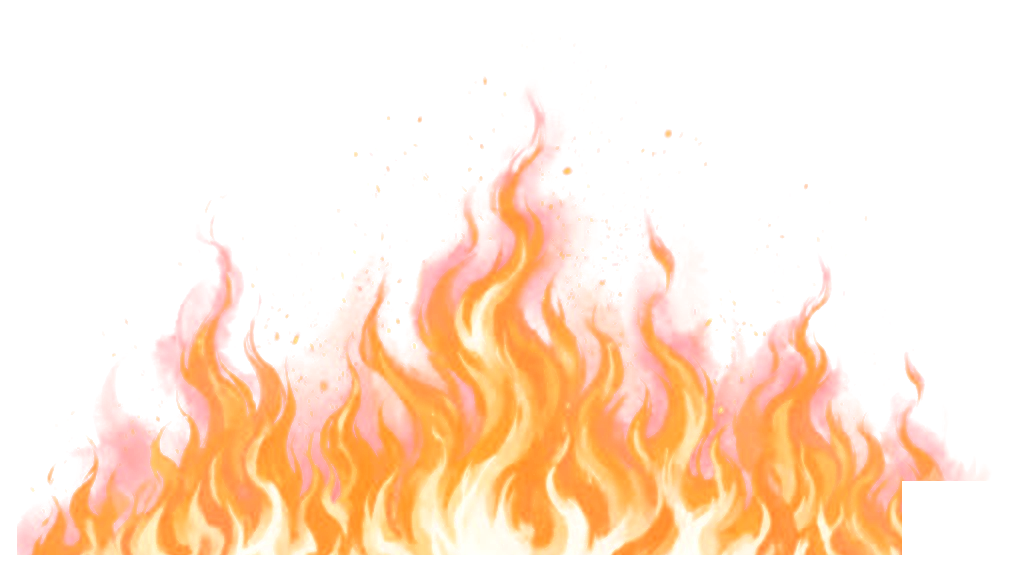
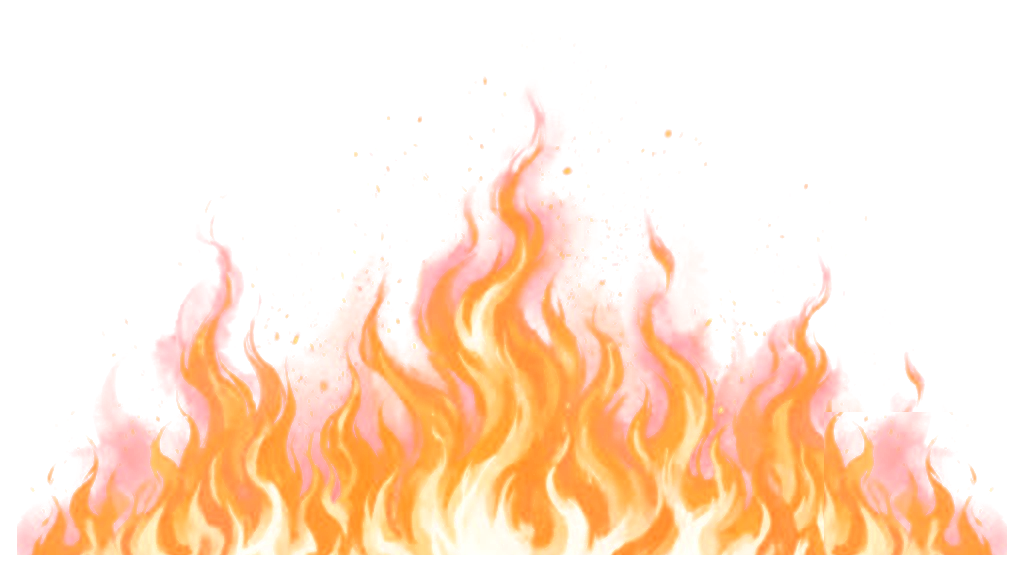
각성 불을 그림이 아니라 지금 타는 불로 — WebGL 불 셰이더(burn.ts: 위로 흐르는 잡음 UV 비틂 · 능선 잡음 혀 · 깎기 문턱으로 번짐 · 흰→노랑→주황→붉은 그레이디언트 맵 · 테두리 둘레 거리로 근원) · 액자는 엠블럼 없는 민 청동 띠로 새로(새 대화) · 불꽃 자리는 빈 청동 자리 위에서 탄다 · 영웅 칸 불꽃도 청동 자리 그림 · 그림 검토 에이전트 지적 고침(불벽 구멍 · 불티·불혀 워터마크 · 켜진 자리 삐침) · WebGL 없으면 그린 불로 (형 11-01)
Claude-Session: https://claude.ai/code/session_01TRiuNBghcKFkjvLYPkZ8je

Changed region(s): [[0.7812, 0.7133, 1.0, 0.9808]]

diff --git a/src/ui/realm/burn.ts b/src/ui/realm/burn.ts
@@ -1,0 +1,140 @@
+// 타오르는 불 — 그린 불 그림이 아니라 지금 타는 불 (형 11-01: "채워진 게 아니라 불타는 듯한 연출이 필요")
+//
+// 요즘 게임 VFX 의 불 셰이더를 작게 옮긴다 (realtimevfx · godotshaders 의 stylized fire 갈래):
+//  1. 흐름 — 잡음(fbm 3옥타브)을 위로 흘려 불 모양의 UV 를 비튼다. 비틂은 위로 갈수록 크다 (밑동은 붙어 있고 끝이 넘실댄다)
+//  2. 깎기(erosion) — 열에서 문턱을 빼 가장자리를 찢는다. 불이 붙을 때 문턱이 내려가며 「번진다」
+//  3. 그레이디언트 맵 — 열 하나를 흰 심 → 노랑 → 주황 → 붉은 끝 → 투명으로
+//  4. 테두리 불(burning paper) — 띠에서 떨어진 거리로 열의 근원을 잡고 그 위로 혀가 솟는다
+// 폰: 옥타브 셋 · 작은 캔버스 · 화면 배율 1.5 까지 · 한 번에 몇 개만 (각성 연출 한 장면). 탭이 숨으면 rAF 가 멈춘다 (규칙 4).
+
+const VS = 'attribute vec2 p;varying vec2 v;void main(){v=p*.5+.5;gl_Position=vec4(p,0.,1.);}'
+
+const FS = `precision mediump float;
+varying vec2 v;
+uniform float uT, uOn, uSeed, uMode, uTop, uSide;
+float hash(vec2 p){p=fract(p*vec2(123.34,456.21));p+=dot(p,p+45.32);return fract(p.x*p.y);}
+float noise(vec2 p){vec2 i=floor(p),f=fract(p);f=f*f*(3.-2.*f);
+  return mix(mix(hash(i),hash(i+vec2(1.,0.)),f.x),mix(hash(i+vec2(0.,1.)),hash(i+vec2(1.,1.)),f.x),f.y);}
+float fbm(vec2 p){float a=.5*noise(p);p*=2.03;a+=.25*noise(p);p*=2.01;a+=.125*noise(p);return a/.875;}
+vec4 ramp(float h){
+  vec3 c=mix(vec3(.5,.05,.02),vec3(1.,.4,.05),smoothstep(.12,.42,h));
+  c=mix(c,vec3(1.,.8,.28),smoothstep(.42,.68,h));
+  c=mix(c,vec3(1.,.97,.86),smoothstep(.7,.95,h));
+  float a=smoothstep(.06,.28,h);
+  return vec4(c*a,a);
+}
+// 불혀 하나: s 밑동 · w 너비 · ht 높이 (캔버스 비율)
+float tongue(vec2 uv,vec2 s,float w,float ht,float sd){
+  vec2 q=(uv-s)/vec2(w,ht);
+  if(q.y<-.35||q.y>1.25||abs(q.x)>1.4)return 0.;
+  float n=fbm(vec2(q.x*1.8+sd,q.y*1.4-uT*2.1));
+  q.x+=(n-.5)*1.1*clamp(q.y,0.,1.);
+  float body=1.-smoothstep(0.,.55*(1.-q.y*.82),abs(q.x));
+  float base=smoothstep(-.35,.02,q.y);
+  float flick=fbm(vec2(q.x*3.5-sd,q.y*2.6-uT*3.3));
+  return body*base*(1.12-q.y)*(.55+.9*flick);
+}
+void main(){
+  vec2 uv=v;
+  float h=0.;
+  if(uMode<.5){
+    // 청동 불꽃 자리: 우묵한 속 밑에서 피어 끝 위로 넘실
+    // 가운데 큰 혀 하나 + 양옆 작은 혀 둘이 어긋나 넘실댄다 (한 줄기 촛불처럼 보이지 않게)
+    h=tongue(uv,vec2(.5,.12),.62,.56,uSeed);
+    h=max(h,.85*tongue(uv,vec2(.38,.13),.36,.38,uSeed+5.));
+    h=max(h,.85*tongue(uv,vec2(.62,.13),.36,.42,uSeed+9.));
+  }else{
+    // 액자: 캔버스 위쪽 uTop 만큼은 액자 밖(불이 솟을 자리). cy 는 액자 높이 비율 (0 아래 · 1 윗변)
+    float cy=uv.y*(1.+uTop);
+    float x=uv.x*(1.+2.*uSide)-uSide; // 캔버스는 액자보다 양옆으로 uSide 만큼 넓다: 끝 혀가 잘리지 않게
+    // 액자 바깥 테두리 둘레 전체가 불의 근원 (burning paper): 바깥 테에서 떨어진 거리 e. 불은 위로 타므로
+    // 옆·아래로는 짧게(.07), 위로는 길게(uTop) 잰다. 띠 위에서는 e=0 이지만 띠 안쪽으로 갈수록 식어 청동이 드러난다
+    float ox=max(max(-x,x-1.),0.);
+    float above=max(cy-1.,0.);
+    float below=max(-cy,0.);
+    float e=length(vec2(ox/.07,above/uTop+below/.012)); // 아래로는 거의 안 번진다 (캔버스가 액자 밑에서 끝난다)
+    float inBand=min(min(x,1.-x),min(cy,1.-cy)); // 띠 안에서 바깥 테까지 (0 = 바깥 테)
+    float cool=smoothstep(.0,.07,inBand);        // 띠 안쪽 깊이 들수록 불이 옅다
+    if(e<1.){
+      // 혀로 갈라지게: 흐름 잡음으로 x 를 비틀고, 능선 잡음(1-|2n-1|)으로 가는 혀를 세운 뒤, 근원에서 멀수록 문턱을 올려 끝이 끊긴다
+      float w=fbm(vec2(x*4.+uSeed,cy*1.6-uT*1.5));
+      float n=fbm(vec2(x*11.+(w-.5)*2.2,cy*2.6-uT*2.8));
+      float ridge=1.-abs(2.*n-1.);
+      float col=fbm(vec2(x*6.-uSeed,uT*.6)); // 혀마다 키가 다르다
+      float topw=.55+.45*smoothstep(.2,1.,cy); // 윗변 쪽이 더 세다: 열은 위로 모인다
+      h=max(h,(ridge*1.45-.3-e*(2.4-col*1.2)-cool*.9)*(1.-smoothstep(.8,1.,e))*topw);
+    }
+    // 안쪽 창(초상)은 가리지 않는다
+    if(x>.086&&x<.914&&cy>.086&&cy<.914)h=0.;
+  }
+  h-=(1.-uOn)*.9; // 깎기: 붙는 동안 문턱이 내려가며 번진다
+  gl_FragColor=ramp(clamp(h,0.,1.));
+}`
+
+export interface BurnOpts {
+  readonly mode: 'socket' | 'frame'
+  /** 불이 붙기 시작하는 때 (지금부터 ms) · 번지는 데 걸리는 ms */
+  readonly at: number
+  readonly ramp: number
+  /** 액자 — 캔버스 위쪽에 불이 솟을 몫 (액자 높이 비율) */
+  readonly top?: number
+  /** 액자 — 캔버스 양옆에 더 둔 몫 (액자 너비 비율) */
+  readonly side?: number
+  readonly seed?: number
+}
+
+/** 캔버스에 불을 피운다 — 캔버스가 문서에서 빠지면 저절로 멈춘다. WebGL 이 없으면 false (부른 쪽이 그린 불로 대신한다) */
+export function burn(cv: HTMLCanvasElement, o: BurnOpts): boolean {
+  const gl = cv.getContext('webgl', { premultipliedAlpha: true, alpha: true, antialias: false })
+  if (gl === null) return false
+  const sh = (type: number, src: string): WebGLShader | null => {
+    const s = gl.createShader(type)
+    if (s === null) return null
+    gl.shaderSource(s, src)
+    gl.compileShader(s)
+    return gl.getShaderParameter(s, gl.COMPILE_STATUS) === true ? s : null
+  }
+  const vs = sh(gl.VERTEX_SHADER, VS)
+  const fs = sh(gl.FRAGMENT_SHADER, FS)
+  const pr = gl.createProgram()
+  if (vs === null || fs === null || pr === null) return false
+  gl.attachShader(pr, vs)
+  gl.attachShader(pr, fs)
+  gl.linkProgram(pr)
+  if (gl.getProgramParameter(pr, gl.LINK_STATUS) !== true) return false
+  gl.useProgram(pr)
+  const buf = gl.createBuffer()
+  gl.bindBuffer(gl.ARRAY_BUFFER, buf)
+  gl.bufferData(gl.ARRAY_BUFFER, new Float32Array([-1, -1, 1, -1, -1, 1, 1, 1]), gl.STATIC_DRAW)
+  const loc = gl.getAttribLocation(pr, 'p')
+  gl.enableVertexAttribArray(loc)
+  gl.vertexAttribPointer(loc, 2, gl.FLOAT, false, 0, 0)
+  const u = (n: string): WebGLUniformLocation | null => gl.getUniformLocation(pr, n)
+  const [uT, uOn, uSeed, uMode, uTop, uSide] = [u('uT'), u('uOn'), u('uSeed'), u('uMode'), u('uTop'), u('uSide')]
+  gl.uniform1f(uSeed, o.seed ?? 0)
+  gl.uniform1f(uMode, o.mode === 'frame' ? 1 : 0)
+  gl.uniform1f(uTop, o.top ?? 0)
+  gl.uniform1f(uSide, o.side ?? 0)
+  const still = window.matchMedia('(prefers-reduced-motion: reduce)').matches
+  const t0 = performance.now()
+  const fit = (): void => {
+    const k = Math.min(window.devicePixelRatio || 1, 1.5)
+    const w = Math.max(1, Math.round(cv.clientWidth * k))
+    const h = Math.max(1, Math.round(cv.clientHeight * k))
+    if (cv.width !== w || cv.height !== h) { cv.width = w; cv.height = h; gl.viewport(0, 0, w, h) }
+  }
+  const frame = (now: number): void => {
+    if (!cv.isConnected) { gl.getExtension('WEBGL_lose_context')?.loseContext(); return }
+    fit()
+    const ms = now - t0
+    const on = Math.min(1, Math.max(0, (ms - o.at) / Math.max(1, o.ramp)))
+    gl.uniform1f(uT, still ? 1 : ms / 1000)
+    gl.uniform1f(uOn, still ? (ms >= o.at ? 1 : 0) : on)
+    gl.clearColor(0, 0, 0, 0)
+    gl.clear(gl.COLOR_BUFFER_BIT)
+    gl.drawArrays(gl.TRIANGLE_STRIP, 0, 4)
+    requestAnimationFrame(frame)
+  }
+  requestAnimationFrame(frame)
+  return true
+}

diff --git a/src/ui/realm/appstyle.ts b/src/ui/realm/appstyle.ts
@@ -1212,7 +1212,8 @@ export const UI_CSS = `
 .ap .ascfx.out { opacity: 0; }
 .ap .axveil { position: absolute; inset: 0; background: radial-gradient(ellipse at 50% 62%, #2a0e04f2 0, #07080cf7 72%); animation: axfade .4s ease-out both; }
 @keyframes axfade { from { opacity: 0; } to { opacity: 1; } }
-.ap .axwall { position: absolute; left: 50%; bottom: 0; width: max(100%, 720px); transform: translateX(-50%); opacity: 0; pointer-events: none;
+.ap .axwall { -webkit-mask-image: linear-gradient(90deg, transparent, #000 6%, #000 94%, transparent); mask-image: linear-gradient(90deg, transparent, #000 6%, #000 94%, transparent); }
+.ap .axwall { position: absolute; left: 50%; bottom: -3%; width: max(100%, 720px); transform: translateX(-50%); opacity: 0; pointer-events: none;
   animation: axwall .9s ease-out calc(var(--tf) - 600ms) forwards, axwallb 1.4s ease-in-out calc(var(--tf) + 300ms) infinite alternate; }
 @keyframes axwall { from { opacity: 0; } to { opacity: .95; } }
 @keyframes axwallb { from { opacity: .95; } to { opacity: .68; } }
@@ -1221,12 +1222,14 @@ export const UI_CSS = `
 .ap .axembers img { display: block; width: 100%; }
 @keyframes axember { 0% { opacity: 0; transform: none; } 12% { opacity: 1; } 75% { opacity: .85; } 100% { opacity: 0; transform: translate(var(--dx), -96vh) rotate(30deg); } }
 .ap .axstage { position: relative; z-index: 1; display: grid; justify-items: center; gap: 6px; }
-.ap .axcard { position: relative; width: min(64vw, 360px, 44vh); aspect-ratio: 1;
+.ap .axcard { position: relative; width: min(74vw, 400px, 48vh); aspect-ratio: 1;
   animation: axpop .55s cubic-bezier(.2, 1.4, .4, 1) .15s both, axshake .5s linear calc(var(--tf) - 550ms), axboom .6s cubic-bezier(.2, 1.6, .4, 1) var(--tf); }
 @keyframes axpop { from { opacity: 0; transform: translateY(14%) scale(.85); } to { opacity: 1; transform: none; } }
 @keyframes axshake { 0%, 100% { transform: none; } 20% { transform: translate(-4px, 2px) rotate(-1deg); } 40% { transform: translate(5px, -2px) rotate(1deg); } 60% { transform: translate(-6px, 1px); } 80% { transform: translate(4px, -1px); } }
 @keyframes axboom { 0% { transform: none; } 30% { transform: scale(1.08); } 100% { transform: none; } }
-.ap .axold, .ap .axnew { position: absolute; inset: 0; width: 100%; height: 100%; object-fit: cover; border-radius: 14px; box-shadow: 0 0 0 2px #ffd76a, 0 0 36px #ff9a3a88; }
+.ap .axwin { position: absolute; left: 8%; right: 8%; top: 8%; bottom: 8%; overflow: hidden; background: #1c2129; }
+.ap .axframe { position: absolute; inset: 0; width: 100%; height: 100%; z-index: 1; pointer-events: none; }
+.ap .axold, .ap .axnew { position: absolute; inset: 0; width: 100%; height: 100%; object-fit: cover; object-position: 50% 20%; }
 .ap .axold { animation: axgone .25s linear var(--tf) forwards; }
 @keyframes axgone { to { opacity: 0; } }
 .ap .axnew { opacity: 0; animation: axfade .25s ease-out var(--tf) forwards; }
@@ -1234,11 +1237,16 @@ export const UI_CSS = `
   animation: axtg .5s ease-out calc(var(--tf) - 600ms + var(--i) * 40ms) forwards, axlick .9s ease-in-out calc(var(--tf) + var(--i) * 70ms) infinite alternate; }
 @keyframes axtg { from { opacity: 0; transform: scaleY(.2); } to { opacity: 1; transform: translateY(-10%) scaleY(1.9); } }
 @keyframes axlick { from { transform: translateY(-10%) scaleY(1.9); } to { transform: translateY(-4%) scaleY(1.55) skewX(4deg); } }
-.ap .axslots { display: flex; gap: 14px; margin-top: 4px; }
-.ap .axslot { display: grid; place-items: center; width: 36px; height: 36px; border-radius: 50%; border: 2px solid #ffd76a44; background: #1a0d06; animation: axring .4s ease-out calc(var(--t0) + var(--i) * var(--tg)) forwards; }
-@keyframes axring { to { border-color: #ffd76a; } }
-.ap .axslot img { width: 30px; opacity: 0; transform: scale(.2); animation: axign .35s cubic-bezier(.2, 1.8, .4, 1) calc(var(--t0) + var(--i) * var(--tg)) forwards; }
+.ap .axslots { display: flex; gap: 12px; margin-top: 2px; }
+.ap .axslot { position: relative; width: 32px; height: 44px; }
+.ap .axslot img { position: absolute; inset: 0; width: 100%; height: 100%; object-fit: contain; }
+.ap .axslot img.on { opacity: 0; transform: scale(.4); animation: axign .35s cubic-bezier(.2, 1.8, .4, 1) calc(var(--t0) + var(--i) * var(--tg)) forwards; }
 @keyframes axign { to { opacity: 1; transform: none; } }
+/* 타는 불 (burn.ts 셰이더) — 빈 청동 자리·민 액자 위에 캔버스. WebGL 이 없으면(.nogl) 그린 불 그림과 불혀 그림으로 */
+.ap .axsb { position: absolute; left: -30%; bottom: 0; width: 160%; height: 160%; pointer-events: none; }
+.ap .axburn { position: absolute; left: calc(var(--bs) * -100%); width: calc((1 + 2 * var(--bs)) * 100%); top: calc(var(--bt) * -100%); height: calc((1 + var(--bt)) * 100%); z-index: 2; pointer-events: none; }
+.ap .ascfx:not(.nogl) .axtg, .ap .ascfx:not(.nogl) .axslot img.on { display: none; }
+.ap .ascfx.nogl canvas { display: none; }
 .ap .axtitle { position: relative; width: min(84vw, 420px); aspect-ratio: 900 / 503; margin-top: -26px; pointer-events: none; }
 .ap .axbrush, .ap .axword { position: absolute; inset: 0; width: 100%; height: 100%; }
 .ap .axbrush { opacity: .85; transform: scaleX(0); transform-origin: 8% 50%; animation: axswipe .35s cubic-bezier(.3, .9, .3, 1) calc(var(--tf) + 150ms) forwards; }
@@ -1257,9 +1265,9 @@ export const UI_CSS = `
 /* 각성 불꽃 칸 — 초상 아래 가운데 · 꺼진 칸은 잿빛 */
 .ap .hpic { position: relative; }
 .ap .flms { position: absolute; left: 50%; bottom: 4px; transform: translateX(-50%); display: flex; gap: 2px; padding: 2px 6px; border-radius: 999px; background: #140f0ad9; border: 1px solid #6a5030; }
-.ap .flms .flm { width: 22px; height: 22px; object-fit: contain; filter: grayscale(1) brightness(.45); opacity: .7; }
-.ap .flms .flm.lit { filter: none; opacity: 1; }
-.ap .flms.on { color: #ffd76a; font-weight: 900; letter-spacing: .15em; font-size: 13px; border-color: #ffd76a; box-shadow: 0 0 10px #ffb84a88; }
+.ap .flms .flm { width: 16px; height: 22px; object-fit: contain; }
+.ap .flms .flm.lit { transform: scale(1.08); }
+.ap .flms.on { padding: 1px 8px; border-color: #ffd76a; box-shadow: 0 0 10px #ffb84a88; } .ap .flms .flmw { height: 20px; width: auto; display: block; }
 /* 혼인 고르기 — 친밀 하트 (아끼는 사이 붉게 · 정략은 잿빛) */
 .ap .wcand .wtie { display: block; font-size: 12px; color: #e8b0a0; letter-spacing: .02em; } .ap .wcand .wtie.love { color: #ff8a8a; font-weight: 700; } .ap .wcand .wtie.cold { color: #9a9a9a; }
 /* 쉴 때 다이어트 (형 10-31: "안 건드리면 아주 최소화한 것만" · ZAXIS-1031 2단계) — 아무것도 안 고르고 멀리 볼 때는 관계 칩 · 특산 칸 ·

diff --git a/src/ui/realm/app.ts b/src/ui/realm/app.ts
@@ -78,6 +78,7 @@ import { APPROACH_DOES, APPROACH_NAME, B0_KEY, HARD_LINE, WAR_CSS, b0On, openWar
 import { MEM_CSS, memRowHtml } from './memrow.ts'
 import { attachZoom } from './zoom.ts'
 import { holdBox, longPress } from './holdbox.ts'
+import { burn } from './burn.ts'
 import { TUT_CSS, TUT_STEPS, createSpot, tutAt, tutBandHtml, tutStyle } from './tutorial.ts'
 import { LOG_CSS, LOG_GROUPS, lineNations, logGroup, logNations, logRows, logbookHtml, type LogFilter } from './logbook.ts'
 import { markTutorialOver, markWon, nationWon, tutorialOver, unlockedBoards, tierOpen, tierWon } from './unlock.ts'
@@ -1246,15 +1247,18 @@ export function mountRealmApp(root: HTMLElement, host: AppHost): { show(r: Realm
   /** 각성 불꽃 칸 — 우리 장수만. 빈 칸 셋이 이길 때마다 켜진다 · 각성하면 「각성」 띠 (형 10-31) */
   function flamesHtml(x: Hero): string {
     if (realm === null || x.faction !== me() || isRuler(realm, x.id)) return ''
-    if (x.ascended === true) return `<span class="flms on" title="각성했습니다">각성</span>`
+    if (x.ascended === true) return `<span class="flms on" title="각성했습니다"><img class="flmw" src="${ART}fx/awaken/word.png" alt="각성"></span>`
     const n = x.flames ?? 0
-    const cells = Array.from({ length: P.realm.ascendWins }, (_, i) => `<img class="flm${i < n ? ' lit' : ''}" src="${ART}fx/fire.png" alt="">`).join('')
+    // 빈 칸·붙은 칸은 청동 불꽃 자리 그림 둘 (형 11-01: "빈 엠블럼 칸이랑 채워진 불 이미지 다 새로" · 제미나이 Argon)
+    const cells = Array.from({ length: P.realm.ascendWins }, (_, i) => `<img class="flm${i < n ? ' lit' : ''}" src="${ART}fx/awaken/slot-${i < n ? 'on' : 'off'}.png" alt="">`).join('')
     return `<span class="flms" title="${P.realm.ascendWins}번 내리 이기면 각성합니다. 지면 꺼집니다">${cells}</span>`
   }
   /**
    * 각성 연출 — 우리 장수가 내리 이겨 각성하면 그 자리에서 크게 (형 10-31: 3연승 직후 각성 연출 · 메모리 WWE 오버액션).
    * 각성 초상이 아래에서 솟고 빛이 터진다. 누르거나 몇 초 뒤 걷힌다. 여럿이면 첫째만 크게, 나머지는 보고에
    */
+  // 개발판에서만 — 각성 연출을 바로 띄워 본다 (콘솔 · tools/phone-shot PRE): __ascend('장수 id')
+  if (import.meta.env.DEV) (window as unknown as Record<string, unknown>)['__ascend'] = (id: string): void => { if (realm !== null) ascendShow(realm, [{ kind: 'ascend', hero: id }]) }
   function ascendShow(r: Realm, lines: readonly ReportLine[]): void {
     const l = lines.find((x): x is Extract<ReportLine, { kind: 'ascend' }> => x.kind === 'ascend' && r.heroes[x.hero]?.faction === me())
     if (l === undefined) return
@@ -1272,19 +1276,26 @@ export function mountRealmApp(root: HTMLElement, host: AppHost): { show(r: Realm
     const embers = Array.from({ length: n }, (_, i) => `<i style="--x:${(jit(i, 1) * 100).toFixed(1)}%;--s:${(0.5 + jit(i, 2)).toFixed(2)};--d:${(2.2 + jit(i, 3) * 2).toFixed(2)}s;--dl:${(1.4 + jit(i, 4) * 2.4).toFixed(2)}s;--dx:${((jit(i, 5) - 0.5) * 60).toFixed(0)}px"><img src="${FX}ember.png" alt=""></i>`).join('')
     // 불혀 여섯 — 초상 양옆에서 치솟는다 (가운데는 초상이 가린다)
     const tongues = [-34, -22, -10, 64, 76, 88].map((l, i) => `<img class="axtg" src="${FX}flame.png" style="--i:${i};--l:${l}%" alt="">`).join('')
-    const slots = [0, 1, 2].map((i) => `<i class="axslot" style="--i:${i}"><img src="${ART}fx/fire.png" alt=""></i>`).join('')
+    // 빈 청동 자리 위에 지금 타는 불 (burn.ts 셰이더) · WebGL 이 없으면 그린 불(slot-on · 불혀 그림)로 (.nogl)
+    const slots = [0, 1, 2].map((i) => `<i class="axslot" style="--i:${i}"><img class="off" src="${FX}slot-off.png" alt=""><img class="on" src="${FX}slot-on.png" alt=""><canvas class="axsb"></canvas></i>`).join('')
     const stats = (['mu', 'tong', 'ryak', 'chi', 'deok'] as const).map((s, i) => `<span class="axst" style="--i:${i}">${STAT_NAME[s]} <s>${h[s] - P.realm.ascendBonus}</s><b>${h[s]}</b></span>`).join('')
     const el = document.createElement('div')
     el.className = 'ascfx'
     el.style.cssText = `--t0:${P.realm.ascendSlotMs}ms;--tg:${P.realm.ascendSlotGapMs}ms;--tf:${P.realm.ascendFlashMs}ms`
     el.innerHTML = `<div class="axveil"></div><img class="axwall" src="${FX}wall.png" alt=""><div class="axembers">${embers}</div>`
-      + `<div class="axstage"><div class="axcard">${tongues}${before}${after}</div><div class="axslots">${slots}</div>`
+      + `<div class="axstage"><div class="axcard">${tongues}<div class="axwin">${before}${after}</div><img class="axframe" src="${FX}frame0.png" alt=""><canvas class="axburn" style="--bt:${P.realm.ascendFrameTop};--bs:${P.realm.ascendFrameSide}"></canvas></div><div class="axslots">${slots}</div>`
       + `<div class="axtitle"><img class="axbrush" src="${FX}brush.png" alt=""><img class="axword" src="${FX}word.png" alt="각성"></div>`
       + `<b class="axname">${esc(h.name)}</b><div class="axstats">${stats}</div></div><div class="axflash"></div>`
     const timers: number[] = []
     const gone = (): void => { timers.forEach((t) => window.clearTimeout(t)); if (!el.isConnected) return; el.classList.add('out'); window.setTimeout(() => el.remove(), 350) }
     el.addEventListener('click', gone)
     root.appendChild(el)
+    // 불을 피운다 — 세 자리는 북소리마다 하나씩, 액자는 번쩍 0.6초 앞부터 번진다. 하나라도 못 피우면 그린 불로 (.nogl)
+    const lit = [
+      ...[...el.querySelectorAll<HTMLCanvasElement>('.axsb')].map((cv, i) => burn(cv, { mode: 'socket', at: P.realm.ascendSlotMs + i * P.realm.ascendSlotGapMs, ramp: P.realm.ascendIgniteMs, seed: i * 3.1 })),
+      ...[...el.querySelectorAll<HTMLCanvasElement>('.axburn')].map((cv) => burn(cv, { mode: 'frame', at: P.realm.ascendFlashMs - P.realm.ascendFrameLeadMs, ramp: P.realm.ascendFrameLeadMs, top: P.realm.ascendFrameTop, side: P.realm.ascendFrameSide, seed: 7.3 })),
+    ]
+    if (lit.some((x) => !x)) el.classList.add('nogl')
     // 소리도 장면을 따라 — 불꽃 세 칸은 북 셋 · 번쩍에 큰 타격 · 붓글씨에 나팔 · 그다음 장수의 한마디
     const at = (ms: number, f: () => void): void => { timers.push(window.setTimeout(() => { if (el.isConnected && document.visibilityState === 'visible') f() }, ms)) }
     for (const i of [0, 1, 2]) at(P.realm.ascendSlotMs + i * P.realm.ascendSlotGapMs, () => ding(snd('tap_drum'), 0.55 + i * 0.15))

diff --git a/src/tune/params.ts b/src/tune/params.ts
@@ -2285,6 +2285,10 @@ export const SPEC = {
     ascendFlashMs: k(2100, 500, 6000, 50, '각성: 번쩍 · 각성 초상으로 바뀌는 때 (불길은 그 0.6초 앞부터)', 'ms'),
     ascendEmbers: k(30, 0, 80, 1, '각성: 떠오르는 불티 수 (큰 화면)'),
     ascendEmbersPhone: k(16, 0, 60, 1, '각성: 떠오르는 불티 수 (폰 · 그래픽 한도)'),
+    ascendIgniteMs: k(320, 50, 2000, 10, '각성: 불꽃 자리 하나에 불이 번지는 데 (셰이더 깎기 문턱이 내려가는 시간)', 'ms'),
+    ascendFrameLeadMs: k(700, 100, 3000, 50, '각성: 액자 불이 번쩍보다 먼저 붙어 번지는 시간', 'ms'),
+    ascendFrameTop: k(0.34, 0, 0.6, 0.02, '각성: 액자 위로 불이 솟을 몫 (액자 높이 비율 · 캔버스가 그만큼 위로 크다)'),
+    ascendFrameSide: k(0.08, 0, 0.3, 0.01, '각성: 액자 불 캔버스를 양옆으로 더 넓히는 몫 (끝 혀가 잘리지 않게)'),
     // 옮긴 백성은 길 위에 있다가 계절마다 조금씩 닿는다 — 많이 옮길수록 여러 계절 (형 10-31: "재편한 양에 따라 몇 턴에 걸쳐")
     placeRateRoom: k(0.1, 0.01, 1, 0.01, '백성 배치: 받는 고을에 한 계절에 닿는 집 — 그 고을 품 대비'),
     placeRateMin: k(5, 1, 100, 1, '백성 배치: 한 계절에 닿는 집의 바닥 (품이 작은 고을도 이만큼은)'),
